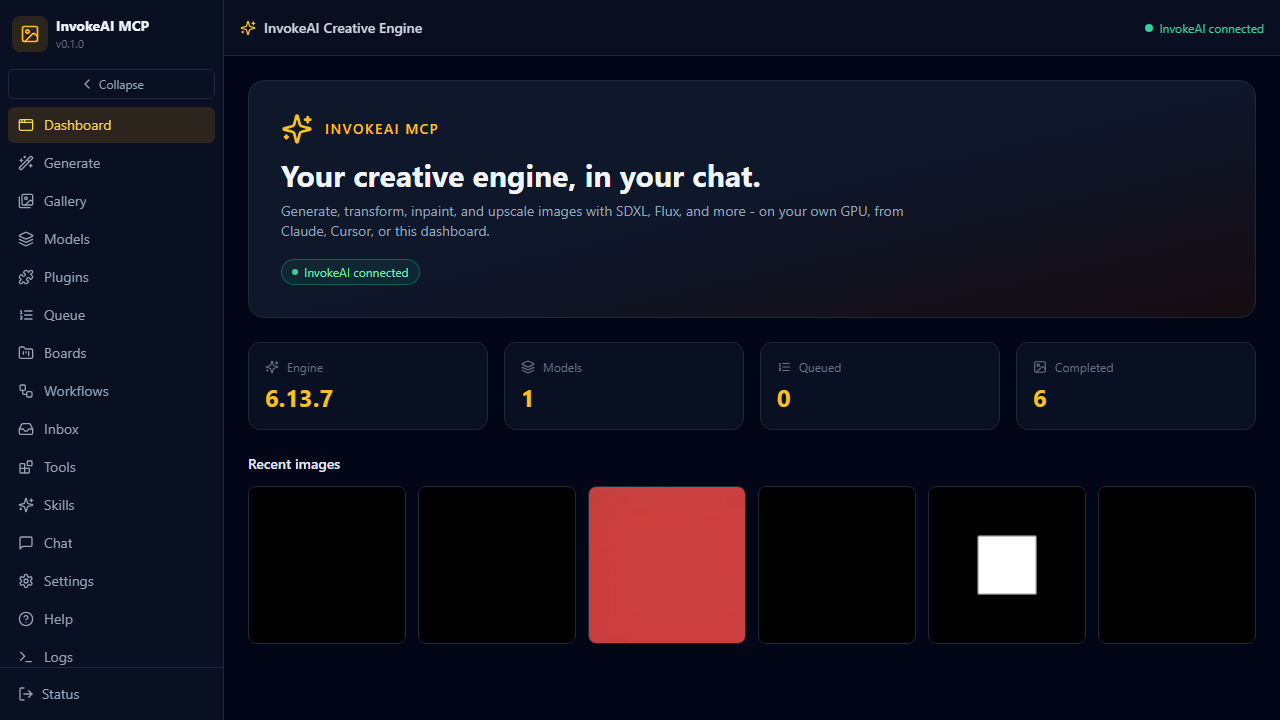
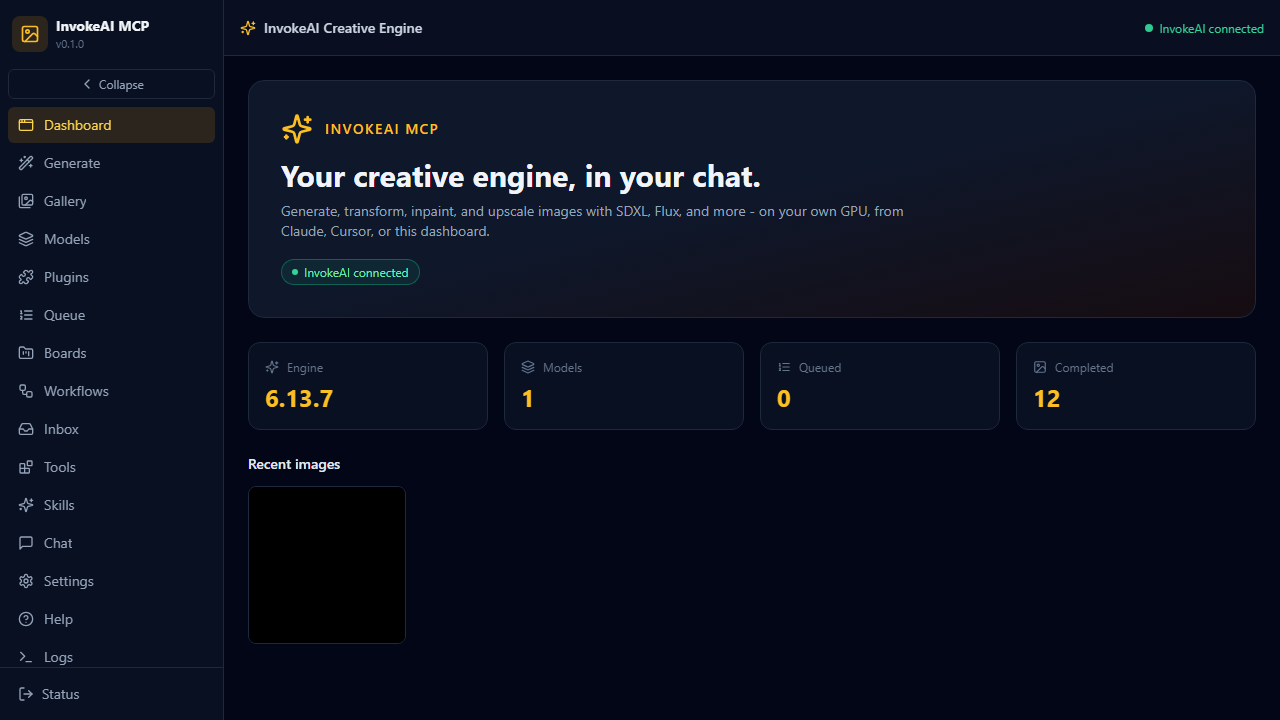
fix: image rendering - unwrap list envelopes + proxy output URLs
- GET list endpoints return the payload directly (gallery/models/boards/
  workflows/queue pages were reading the inner shape -> empty lists)
- Generate output renders via the same-origin image proxy instead of bare
  image names (404 blank); verified 13/13 gallery thumbs + live generation
  output displayed in-browser

Changed region(s): [[0.4375, 0.6722, 0.5938, 0.9167], [0.75, 0.7333, 0.8125, 0.825], [0.8125, 0.55, 0.8438, 0.5806]]

diff --git a/webapp/src/pages/GeneratePage.tsx b/webapp/src/pages/GeneratePage.tsx
@@ -646,7 +646,9 @@ export default function GeneratePage() {
         });
         if (res.success && res.data?.status === "completed") {
           setOutputs(
-            (res.data.outputs ?? []).map((o) => o.url ?? o.image_name),
+            (res.data.outputs ?? []).map(
+              (o) => o.url ?? `/api/invokeai/image/${o.image_name}`,
+            ),
           );
           return;
         }

diff --git a/webapp/playwright.config.ts b/webapp/playwright.config.ts
@@ -25,3 +25,5 @@ export default defineConfig({
     },
   ],
 });
+
+

diff --git a/src/invokeai_mcp/api/routes.py b/src/invokeai_mcp/api/routes.py
@@ -338,7 +338,8 @@ async def _invokeai_list(request: Request) -> JSONResponse:
             value = params.get(query_key, "")
             kwargs[arg] = int(value) if arg == "limit" else value
     result = await fn(**kwargs)
-    return JSONResponse(result, status_code=200 if result.get("success") else 400)
+    # GET list endpoints return the payload directly (pages read data.models etc.)
+    return JSONResponse(result.get("data", result), status_code=200 if result.get("success") else 400)
 
 
 async def _queue_status_rest(request: Request) -> JSONResponse:
@@ -359,7 +360,7 @@ async def _queue_list_rest(request: Request) -> JSONResponse:
     result = await invokeai_queue(
         operation="list", limit=int(request.query_params.get("limit", 50))
     )
-    return JSONResponse(result, status_code=200 if result.get("success") else 400)
+    return JSONResponse(result.get("data", result), status_code=200 if result.get("success") else 400)
 
 
 routes = [
